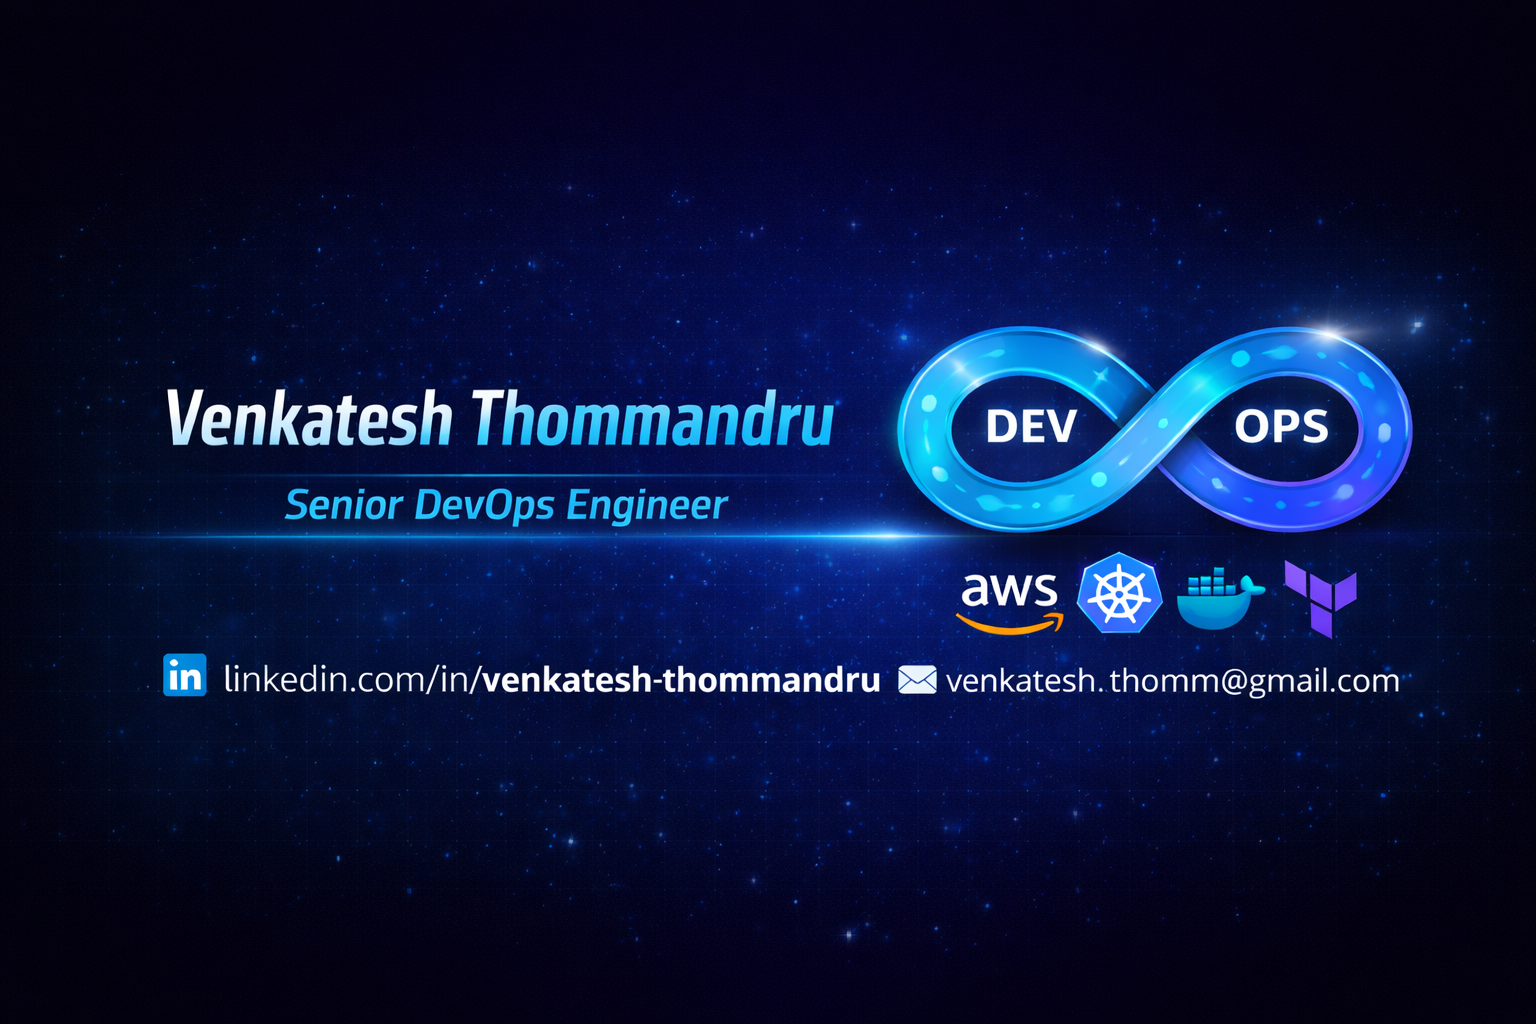
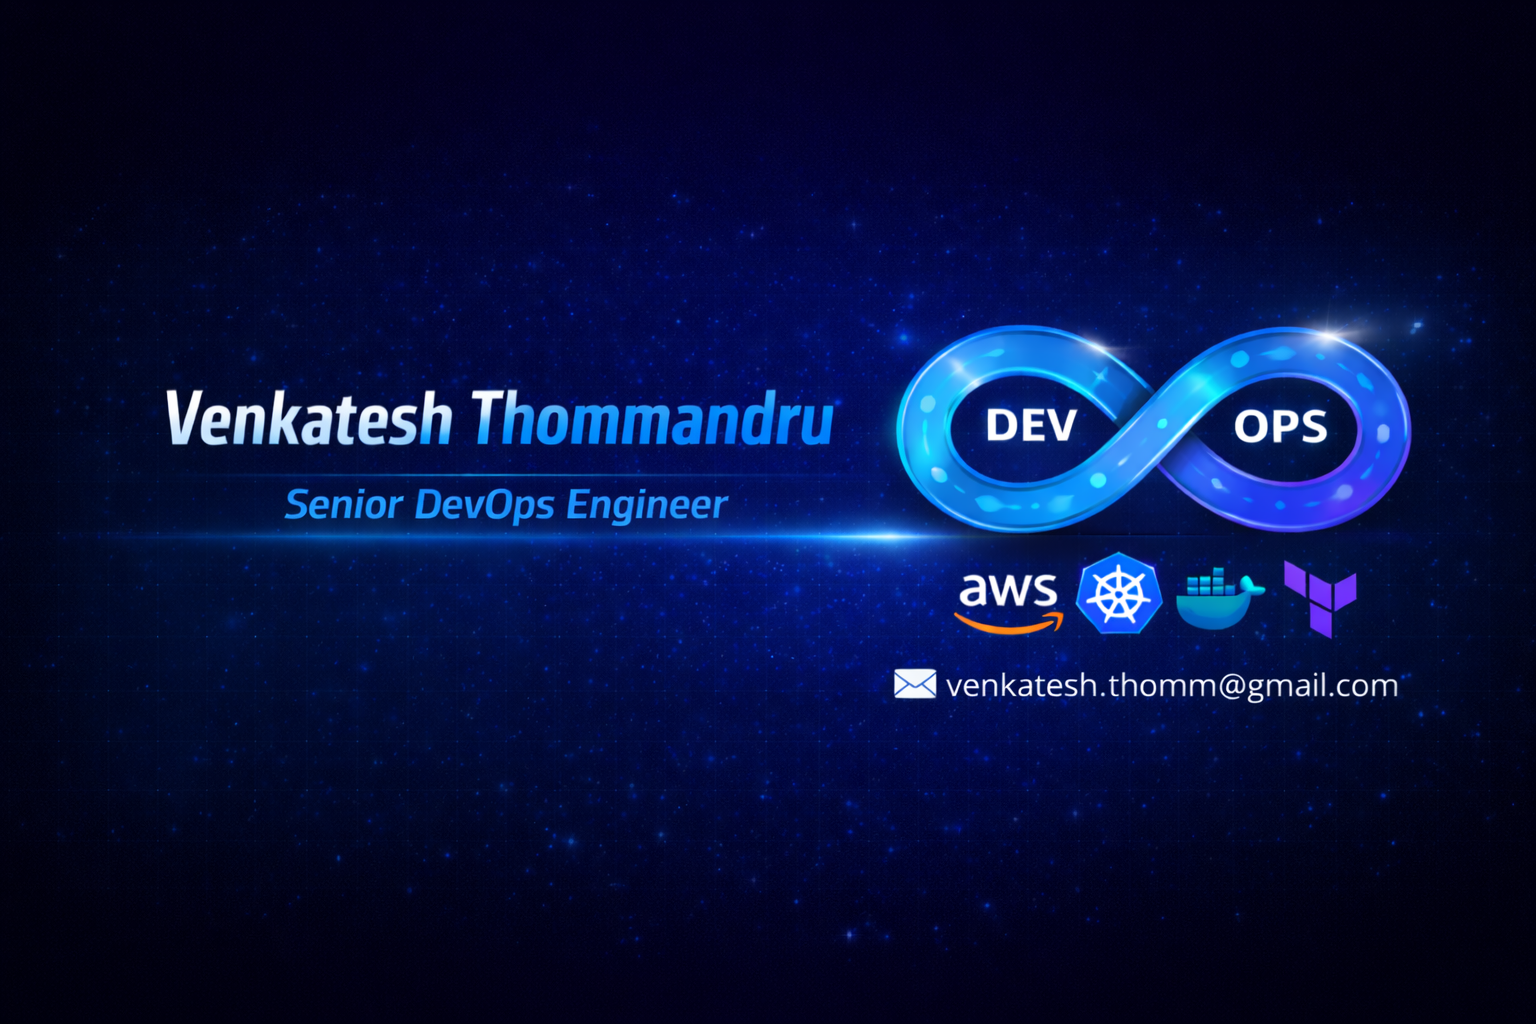
Update README.md with corrected image source and contact information

diff --git a/README.md b/README.md
@@ -1,6 +1,7 @@
 <p align="center">
-  <img src="https://raw.githubusercontent.com/venkatesh-thom/venkatesh-thom/dev/devops.png" width="100%" />
+  <img src="https://raw.githubusercontent.com/venkatesh-thom/venkatesh-thomm/dev/devops.png" width="100%" />
 </p>
+
 
 # 👋 Hi, I'm Venkatesh Thommandru
 
@@ -80,7 +81,7 @@ Senior DevOps Engineer with 6.5+ years building secure, production-grade cloud-n
 
 ## 📬 Connect With Me
 
-* 🔗 **LinkedIn:** [https://www.linkedin.com/in/venkatesh-thommandru/](https://www.linkedin.com/in/venkatesh-thommandru/)
+
 * 📧 **Email:** [venkatesh.thomm@gmail.com](mailto:venkatesh.thomm@gmail.com)
 
 ---
